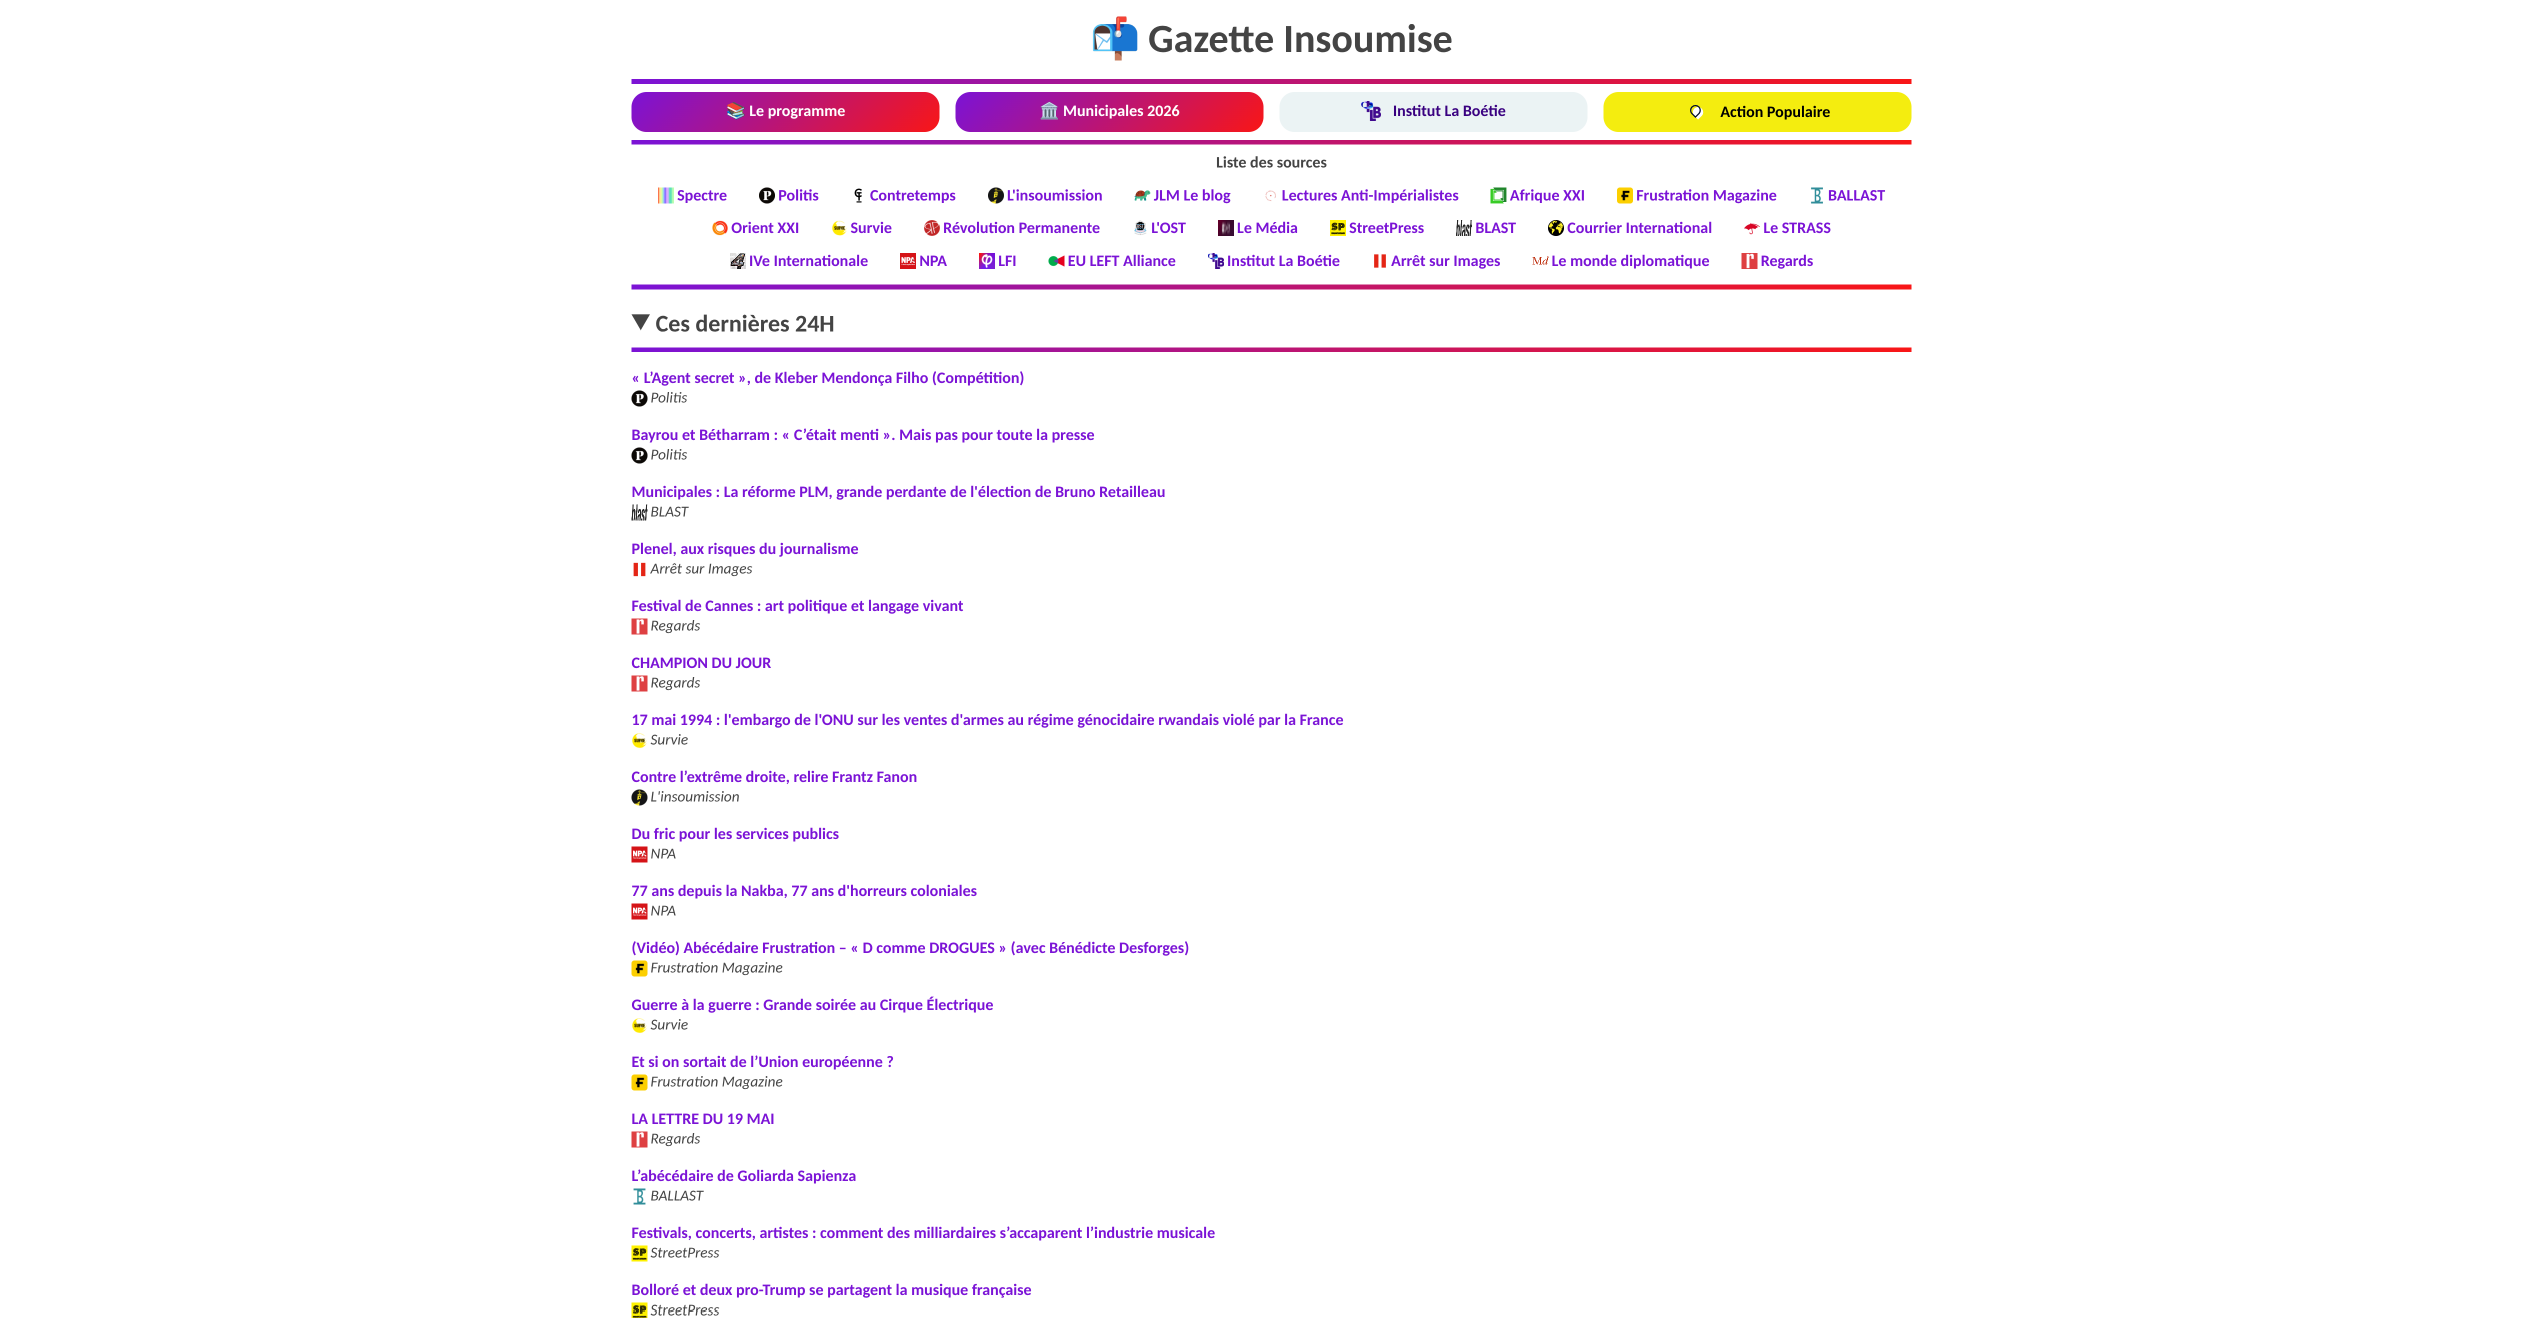
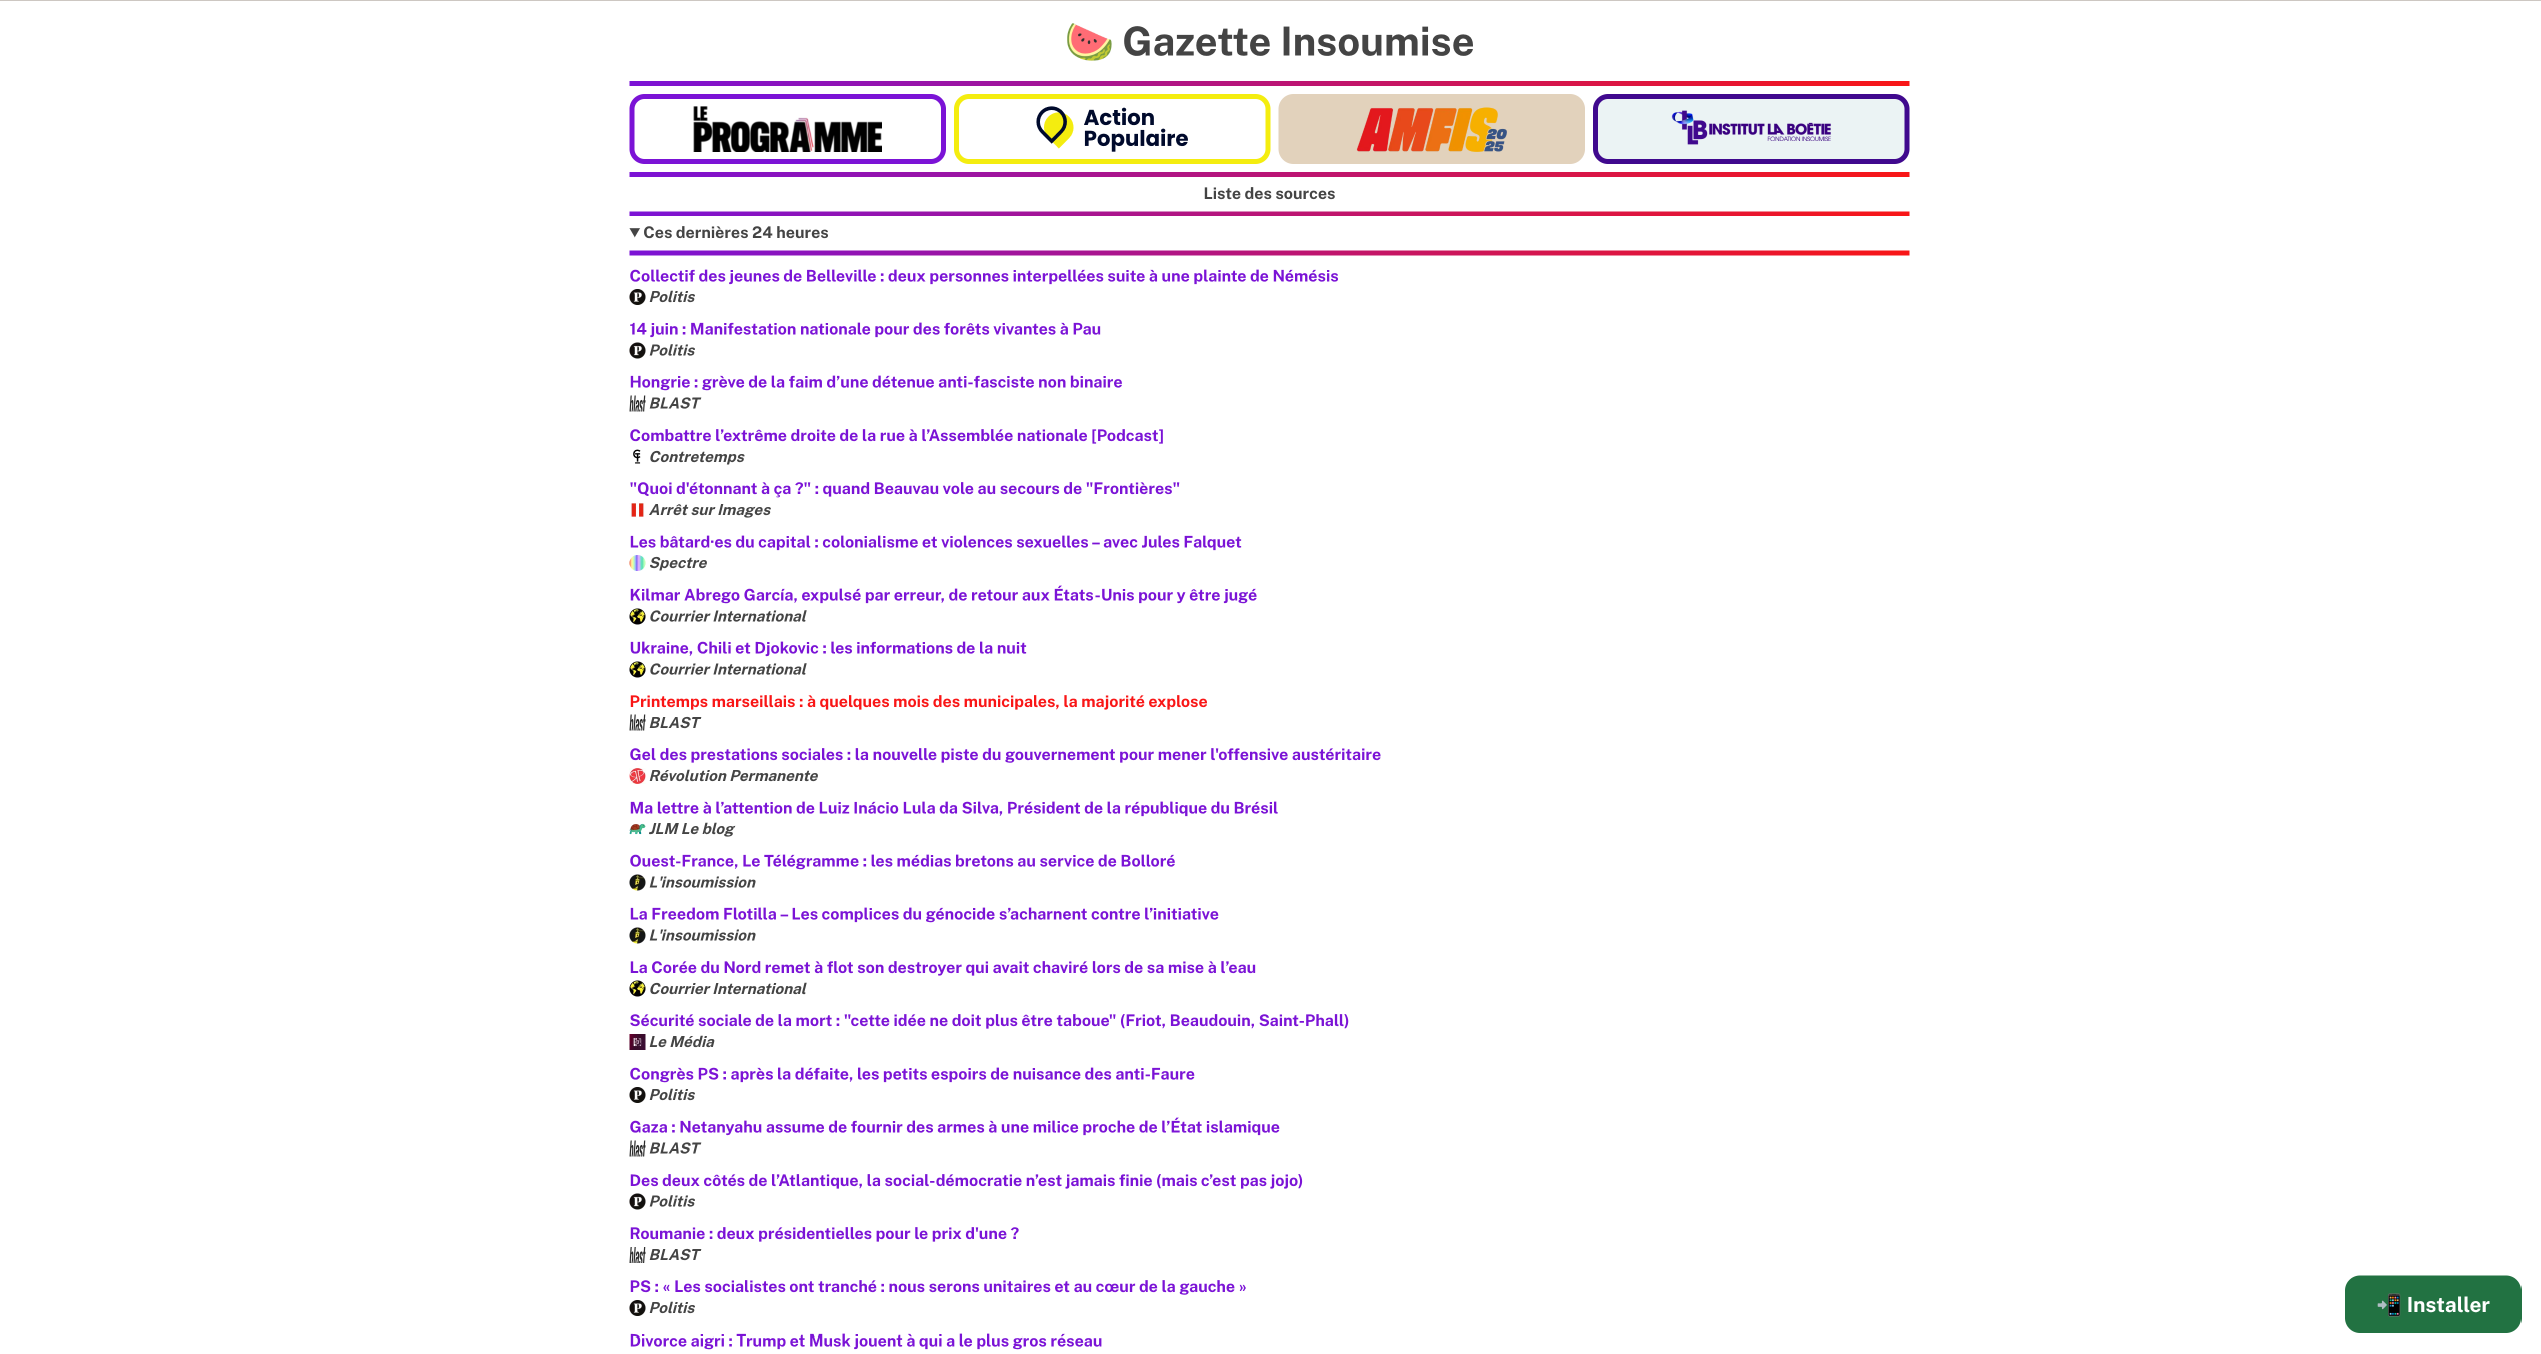
Better layout for buttons + updated PWA screenshots

Changed region(s): [[0.2487, 0.0, 0.7773, 1.0], [0.9016, 0.9332, 0.9949, 0.9954]]

diff --git a/data/static/style.min.css b/data/static/style.min.css
@@ -1,1 +1,1 @@
-:root{--txt:#444;--bd:#333;--bg:white;--primary:#7b13d6;--secondary:#f91616;--ilb-bg:#EBF3F4;--ilb-text:#40098e;--action-pop-yellow:#F4ED0F}@font-face{font-family:'Public Sans';src:url(/static/fonts/PublicSans-Bold.woff2)format('woff2');font-weight:900;font-style:normal}body{font-family:'Public Sans',sans-serif;color:var(--txt);background:var(--bg);max-width:80rem;width:97%;margin:2em auto;margin-top:0;line-height:1.15em}h1{display:inline-block;margin-bottom:.25em;font-size:1.5em}h2{font-size:1rem;display:inline}ol{padding-left:5ch}ul{list-style-type:none;margin:0;padding:0}li{margin-block-start:.75em}a{text-decoration:none}a:link{color:var(--primary)}a:visited{color:var(--secondary)}a:hover{opacity:.8}small{padding-top:.25rem;font-size:.95rem;color:var(--txt)}small>a:link,small>a:visited{color:var(--txt)}.feed-list{display:flex;flex-wrap:wrap;border:0}.feed-details{flex-wrap:wrap}.feed-card{display:flex;flex-direction:row;gap:5px;height:.7em;font-weight:bold}#feed-list div{padding:.4em .4em .3em .4em;text-align:center;vertical-align:middle;border:0;display:flex;justify-content:center;align-items:center;row-gap:.35rem}#feed-list img{margin-right:.2rem}.center{margin-top:20px;margin:auto}.feed-details a,.feed-details a:visited{color:var(--primary)}.liens-lfi{display:flex;justify-content:space-between;gap:.5rem;flex-wrap:wrap;row-gap:.6em;line-height:normal}.liens-lfi a{display:flex;align-items:center;justify-content:center;flex:1 1 0;text-align:center;padding:.2em .5em;transition:background-color .3s,color .3s;background-image:linear-gradient(135deg,var(--primary),var(--secondary));color:white;border-radius:15px;white-space:nowrap;font-size:1.3em;min-height:2.5em;box-sizing:border-box}.liens-lfi a img,.liens-lfi a svg{width:1.5em;height:1.5em;object-fit:contain;margin-right:.3em;flex-shrink:1}#feed-list summary::marker{content:none;font-weight:bold;position:relative}#feed-list summary{cursor:pointer;font-weight:bold}summary{cursor:pointer}#sources{text-align:center}.article-source{padding:0}.article-source a{display:flex;gap:.2em;align-items:center;vertical-align:middle;line-height:1.5;}.article-source a *{vertical-align:middle}.article-source a *{padding:0;margin:0}.liens-lfi img{height:20px;width:20px;margin-right:.5em}.liens-lfi a *{vertical-align:middle}.liste-articles summary::marker{vertical-align:middle}#random-emoji{margin-right:.2em}#title{font-size:2.5em;width:100%;display:flex;align-items:center;justify-content:center;margin:0;height:2em}.liens-lfi #ilb{background-color:var(--ilb-bg);color:var(--ilb-text);background-image:var(--ilb-bg);border:5px solid var(--ilb-text)}#action-pop{background-image:none;background-color:transparent;border:5px solid var(--action-pop-yellow)}hr{border:0;height:.3em;background-image:linear-gradient(135deg,var(--primary),var(--secondary));}#install-button{display:none;position:fixed;bottom:1em;right:1em;background-color:#227242;background-image:none;z-index:1000;padding:.75em 1.5em;color:white;border:0;cursor:pointer}#amfis{background-image:none;background-color:#e2d2bc}#programme-btn{background:white;border:5px solid;border-color:var(--primary)}#programme-btn img,#amfis img,#logo-ap,#ilb img{width:100%;height:auto;max-width:100%;max-height:2.5em;min-width:5em;object-fit:contain;display:block;padding:.15em;margin-right:0;box-sizing:border-box}#ilb img{padding:0}@media only screen and (max-width:480px){.feed-details{flex-wrap:wrap;row-gap:.5em}.article-link{font-size:1.1em}#title{font-size:2em}#feed-list summary::marker{content:'+ '}#sources{text-align:left}.liens-lfi{gap:.6em;row-gap:.6em}#install-button{bottom:.5em;right:.5em;padding:.5em 1em;font-size:1em;height:auto;min-width:7em;border-radius:.5em}}@media(display-mode:standalone),(display-mode:fullscreen){#install-button{display:none}}
+:root{--txt:#444;--bd:#333;--bg:white;--primary:#7b13d6;--secondary:#f91616;--ilb-bg:#EBF3F4;--ilb-text:#40098e;--action-pop-yellow:#F4ED0F}@font-face{font-family:'Public Sans';src:url(/static/fonts/PublicSans-Bold.woff2)format('woff2');font-weight:900;font-style:normal}body{font-family:'Public Sans',sans-serif;color:var(--txt);background:var(--bg);max-width:80rem;width:97%;margin:2em auto;margin-top:0;line-height:1.15em}h1{display:inline-block;margin-bottom:.25em;font-size:1.5em}h2{font-size:1rem;display:inline}ol{padding-left:5ch}ul{list-style-type:none;margin:0;padding:0}li{margin-block-start:.75em}a{text-decoration:none}a:link{color:var(--primary)}a:visited{color:var(--secondary)}a:hover{opacity:.8}small{padding-top:.25rem;font-size:.95rem;color:var(--txt)}small>a:link,small>a:visited{color:var(--txt)}.feed-list{display:flex;flex-wrap:wrap;border:0}.feed-details{flex-wrap:wrap}.feed-card{display:flex;flex-direction:row;gap:5px;height:.7em;font-weight:bold}#feed-list div{padding:.4em .4em .3em .4em;text-align:center;vertical-align:middle;border:0;display:flex;justify-content:center;align-items:center;row-gap:.35rem}#feed-list img{margin-right:.2rem}.center{margin-top:20px;margin:auto}.feed-details a,.feed-details a:visited{color:var(--primary)}.liens-lfi{display:flex;justify-content:space-between;gap:.5rem;flex-wrap:wrap;row-gap:.6em;line-height:normal}.liens-lfi a{display:flex;align-items:center;justify-content:center;flex:1 1 0;text-align:center;padding:.2em .5em;transition:background-color .3s,color .3s;background-image:linear-gradient(135deg,var(--primary),var(--secondary));color:white;border-radius:15px;white-space:nowrap;font-size:1.3em;min-height:2.5em;box-sizing:border-box}.liens-lfi a img,.liens-lfi a svg{width:1.5em;height:1.5em;object-fit:contain;margin-right:.3em;flex-shrink:1}#feed-list summary::marker{content:none;font-weight:bold;position:relative}#feed-list summary{cursor:pointer;font-weight:bold}summary{cursor:pointer}#sources{text-align:center}.article-source{padding:0}.article-source a{display:flex;gap:.2em;align-items:center;vertical-align:middle;line-height:1.5;}.article-source a *{vertical-align:middle}.article-source a *{padding:0;margin:0}.liens-lfi img{height:20px;width:20px;margin-right:.5em}.liens-lfi a *{vertical-align:middle}.liste-articles summary::marker{vertical-align:middle}#random-emoji{margin-right:.2em}#title{font-size:2.5em;width:100%;display:flex;align-items:center;justify-content:center;margin:0;height:2em}.liens-lfi #ilb{background-color:var(--ilb-bg);color:var(--ilb-text);background-image:var(--ilb-bg);border:5px solid var(--ilb-text)}#action-pop{background-image:none;background-color:transparent;border:5px solid var(--action-pop-yellow)}hr{border:0;height:.3em;background-image:linear-gradient(135deg,var(--primary),var(--secondary));}#install-button{display:none;position:fixed;bottom:1em;right:1em;background-color:#227242;background-image:none;z-index:1000;padding:.75em 1.5em;color:white;border:0;cursor:pointer}#amfis{background-image:none;background-color:#e2d2bc}#programme-btn{background:white;border:5px solid;border-color:var(--primary)}#programme-btn img,#amfis img,#logo-ap,#ilb img{width:100%;height:auto;max-width:100%;max-height:2.5em;min-width:5em;object-fit:contain;display:block;padding:.15em;margin-right:0;box-sizing:border-box}#ilb img{padding:0}@media only screen and (max-width:480px){.feed-details{flex-wrap:wrap;row-gap:.5em}.article-link{font-size:1.1em}#title{font-size:2em}#feed-list summary::marker{content:'+ '}#sources{text-align:left}.liens-lfi{gap:.6em;row-gap:.6em;flex-wrap:wrap}.liens-lfi a{flex:1 1 48%;min-width:0;max-width:100%}.liens-lfi a img,.liens-lfi a svg{width:100%;height:auto;max-width:100%;min-width:0;margin-right:0;flex-shrink:1;object-fit:contain}#install-button{bottom:.5em;right:.5em;padding:.5em 1em;font-size:1em;height:auto;min-width:7em;border-radius:.5em}}@media(display-mode:standalone),(display-mode:fullscreen){#install-button{display:none}}

diff --git a/templates/index.html b/templates/index.html
@@ -41,9 +41,6 @@
 		<h1 id="title"><span id="random-emoji"></span>{{ long_name }}</h1>
 		<hr style="margin-top: 0;">
 		<div class="liens-lfi">
-			<a id="ilb" href="https://institutlaboetie.fr/" target="_blank" referrerpolicy="origin">
-				<img role="presentation" src="/static/img/ilbcombo.webp" loading="lazy">
-			</a>
 			<a href="https://programme.lafranceinsoumise.fr/" id="programme-btn" target="_blank" referrerpolicy="origin">
 				<img loading="lazy" aria-label="Action Populaire" style="height: auto;" src="/static/img/programme.webp">
 			</a>
@@ -51,7 +48,10 @@
 				<img id="logo-ap" loading="lazy" aria-label="Action Populaire" src="/static/img/action-populaire_small.svg">
 			</a>
 			<a id="amfis" href="https://amfis.fr/" target="_blank" referrerpolicy="origin">
-				<img loading="lazy" aria-label="Action Populaire" style="height: auto;" src="/static/img/amfis_cropped.webp">
+				<img loading="lazy" aria-label="Amfis 2025" style="height: auto;" src="/static/img/amfis_cropped.webp">
+			</a>
+			<a id="ilb" href="https://institutlaboetie.fr/" target="_blank" referrerpolicy="origin">
+				<img role="presentation" src="/static/img/ilbcombo.webp" loading="lazy">
 			</a>
 			<a id="install-button"><B>📲 Installer</B></a>
 		</div>

diff --git a/data/static/style.css b/data/static/style.css
@@ -313,6 +313,21 @@ hr {
     .liens-lfi {
         gap: 0.6em;
         row-gap: 0.6em;
+        flex-wrap: wrap;
+    }
+    .liens-lfi a {
+        flex: 1 1 48%;
+        min-width: 0;
+        max-width: 100%;
+    }
+    .liens-lfi a img, .liens-lfi a svg {
+        width: 100%;
+        height: auto;
+        max-width: 100%;
+        min-width: 0;
+        margin-right: 0;
+        flex-shrink: 1;
+        object-fit: contain;
     }
 
     #install-button {
